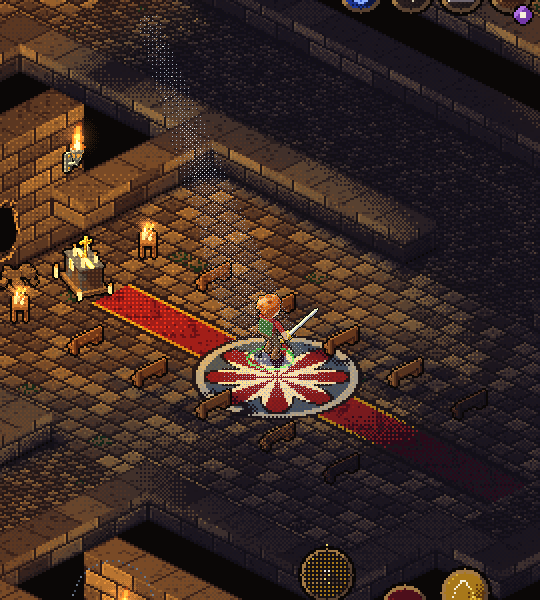
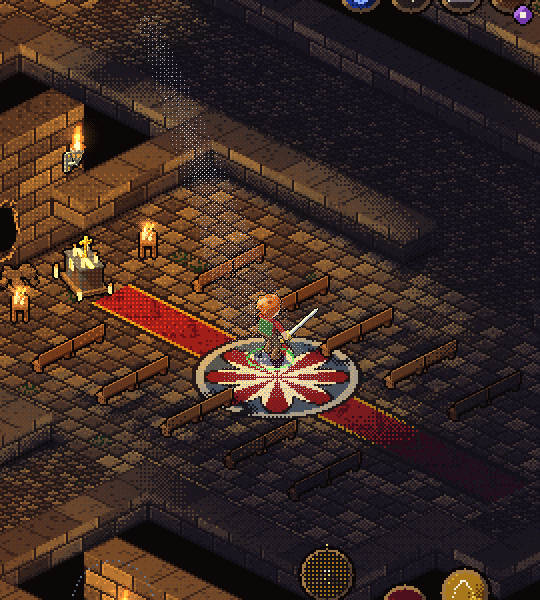
Round 68e: prison (barred cells with bones and straw) and library (bookshelves, reading table, loose pages); chapel pews joined into long benches; moonlight through a cracked ceiling in some plain rooms; notes
Claude-Session: https://claude.ai/code/session_01QbDoFLWPcsErkpKYsU8mMf

diff --git a/diablo-clone/game/js/world.js b/diablo-clone/game/js/world.js
@@ -476,13 +476,14 @@ function placeDecor(R, level) {
     const ok = LV.rooms.map((r, n) => n).filter(n => n > 0 && n !== LV.stairs.room && n !== LV.leaderRoom && LV.rooms[n].shape === 'rect' && LV.rooms[n].w >= 8 && LV.rooms[n].h >= 8);
     ok.sort((a, b) => LV.rooms[b].w * LV.rooms[b].h - LV.rooms[a].w * LV.rooms[a].h);
     const take = (job, pickLargest) => { if (!ok.length || R() > 0.85) return; const k = pickLargest ? 0 : R.int(0, ok.length - 1); LV.rooms[ok[k]].job = job; ok.splice(k, 1); };
-    take('chapel', true); take('ossuary', false); take('burial', false);
+    take('chapel', true); take('ossuary', false); take('burial', false); take('prison', false); take('library', false);
   }
   LV.rooms.forEach((r, n) => {
     const mine = (i, j) => LV.roomOf[tIdx(i, j)] === n;   // (shaped rooms: only tiles of this room's own floor)
     const th = LV.theme, interior = () => { for (let t = 0; t < 30; t++) { const i = R.int(r.x + 1, r.x + r.w - 2), j = R.int(r.y + 1, r.y + r.h - 2); if (mine(i, j) && Math.abs(i - r.cx) + Math.abs(j - r.cy) > 1) return [i, j]; } return [r.cx, r.cy]; };
     const nearWall = () => { for (let t = 0; t < 40; t++) { const i = R.int(r.x, r.x + r.w - 1), j = R.int(r.y, r.y + r.h - 1); if (mine(i, j) && wallSide(i, j)) return [i, j]; } return null; };
     if (r.job) { roomJob(r, n, D, R, mine); return; }   // round 68d: a room with a job is laid out on its own
+    if (th === 'crypt' && n && r.w >= 9 && r.h >= 9 && R() < 0.22 && LV.shafts) { const fi = r.x + r.w * (0.3 + R() * 0.4), fj = r.y + r.h * (0.3 + R() * 0.4); LV.shafts.push({ fi, fj }); LV.stamps.push({ kind: 'debris', fi, fj }); }   // a crack in the ceiling: moonlight and fallen stones
     if (th === 'crypt') {
       if (R() < 0.4) { const q = nearWall(); if (q && trySolid(...q)) D.push({ kind: 'coffin', i: q[0], j: q[1], yaw: tileAt(q[0] - 1, q[1]) === WALL || tileAt(q[0] + 1, q[1]) === WALL ? Math.PI / 2 : 0 }); }
       if (R() < 0.3) { const q = nearWall(); if (q && trySolid(...q)) D.push({ kind: 'candles', i: q[0], j: q[1] }); }
@@ -545,11 +546,20 @@ function roomJob(r, n, D, R, mine) {
     put('candles', 1, mid - 2); put('candles', 1, mid + 2);
     const [ci, cj] = T(Math.floor(L / 2), mid), [a0i, a0j] = T(2, mid), [a1i, a1j] = T(L - 1, mid);
     LV.stamps.push({ kind: 'carpet', a: [a0i + 0.5, a0j + 0.5], b: [a1i + 0.5, a1j + 0.5] }, { kind: 'mosaic', fi: ci + 0.5, fj: cj + 0.5 });
-    for (let u = 3; u <= L - 3; u += 2) for (const v of [mid - 2, mid + 2]) put('pew', u, v, { yaw: alongI ? Math.PI / 2 : 0 });
+    for (let u = 3; u <= L - 3; u += 2) for (const v of [mid - 3, mid - 2, mid + 2, mid + 3]) put('pew', u, v, { yaw: alongI ? Math.PI / 2 : 0 });   // (benches two tiles long each side of the carpet)
     LV.shafts.push({ fi: ci + 0.5, fj: cj + 0.5 });
   } else if (r.job === 'burial') {
     for (let u = 2; u <= L - 3; u += 3) for (const v of [mid - 2, mid + 2]) put('sarco', u, v, { open: R() < 0.4, yaw: alongI ? Math.PI / 2 : 0 });
     if (R() < 0.6) put('candles', 1, mid);
+  } else if (r.job === 'prison') {   // a row of cells along the back: bars across the front with a door gap in each, chains and a slumped prisoner's bones inside, straw
+    for (let v = 0; v < Wd; v++) { if (v % 4 === 2) continue; const [i, j] = T(2, v); if (mine(i, j) && !hidesStairs(i, j) && trySolid(i, j)) D.push({ kind: 'bars', i, j, yaw: alongI ? 0 : Math.PI / 2 }); }
+    for (let v = 1; v < Wd - 1; v += 4) { const [i, j] = T(0, v); D.push({ kind: 'bones', fi: i + 0.6, fj: j + 0.6, seed: R.int(1, 1e6) }); LV.stamps.push({ kind: 'straw', fi: i + 0.5, fj: j + 0.5 }); }
+    if (R() < 0.7) put('candles', L - 2, mid);
+  } else if (r.job === 'library') {   // shelves along the back walls, a reading table in the middle, pages scattered
+    for (let k = 0; k < L; k++) { const [i, j] = T(k, 0); if (mine(i, j) && (tileAt(i - 1, j) === WALL || tileAt(i, j - 1) === WALL) && !hidesStairs(i, j) && trySolid(i, j)) D.push({ kind: 'bookshelf', i, j, yaw: tileAt(i - 1, j) === WALL ? 0 : Math.PI / 2 }); }
+    for (let k = 1; k < Wd; k++) { const [i, j] = T(0, k); if (mine(i, j) && (tileAt(i - 1, j) === WALL || tileAt(i, j - 1) === WALL) && !hidesStairs(i, j) && trySolid(i, j)) D.push({ kind: 'bookshelf', i, j, yaw: tileAt(i - 1, j) === WALL ? 0 : Math.PI / 2 }); }
+    put('table', Math.floor(L / 2), mid, { yaw: alongI ? 0 : Math.PI / 2 });
+    LV.stamps.push({ kind: 'pages', fi: r.cx + 0.5, fj: r.cy + 0.5, seed: R.int(1, 1e6) });
   } else if (r.job === 'ossuary') {
     for (let j = r.y - 1; j <= r.y + r.h; j++) for (let i = r.x - 1; i <= r.x + r.w; i++) {
       if (tileAt(i, j) !== WALL) continue;
@@ -855,13 +865,35 @@ const PROPS = {
     for (const a of [0.4, 2.2, 4.1]) r.cone([0, 0, 1], [Math.cos(a) * 9, Math.sin(a) * 9, 0.2], 0.35, 0.3, M.BONE, { noShadow: true });
   }, [30, 26, 15, 18]),
   // round 68d: rooms with a job. A chapel pew: a plank seat on two legs with a back rail
-  pew: (yaw) => propSprite('pew', r => {
-    r.box([0, 0, 4.2], [9.5, 2.4, 0.7], M.WOOD);   // the seat
-    for (const x of [-7.5, 7.5]) r.box([x, 0, 2], [0.8, 2.2, 2], M.WOOD);   // the legs
-    r.box([0, -2.2, 7.2], [9.5, 0.6, 2.4], M.WOOD, null, { mf: p => Math.abs(p[0] + 3) < 0.6 && p[2] > 6 ? M.LEATHER : 0 });   // the back, a crack across it
-    for (const x of [-9, 9]) r.box([x, -2.2, 5.5], [0.7, 0.7, 4], M.WOOD);   // its posts
-  }, [44, 32, 22, 22], yaw),
-  // a stone coffin: carved band round it, a lid with a cross; open ones have the lid shoved half off and a skull inside
+  pew: (yaw) => propSprite('pew', r => {   // one tile long, so pews side by side join into a long bench
+    r.box([0, 0, 4.2], [11.3, 2.6, 0.7], M.WOOD);   // the seat
+    for (const x of [-10, 10]) r.box([x, 0, 2], [0.8, 2.3, 2], M.WOOD);   // the legs
+    r.box([0, -2.4, 7.6], [11.3, 0.6, 2.6], M.WOOD, null, { mf: p => Math.abs(p[2] - 8.6) < 0.4 ? M.LEATHER : 0 });   // the back, with a rail line
+  }, [52, 34, 26, 22], yaw),
+  // round 68d (improve): iron bars for a prison cell's front, one tile wide, a rail top and bottom
+  bars: (yaw) => propSprite('bars', r => {
+    for (const y of [-11.3, 11.3]) r.box([0, y * 0.98, 13], [0.9, 0.9, 13], M.IRON);   // the posts
+    for (const z of [1, 25]) r.box([0, 0, z], [0.6, 11.3, 0.7], M.IRON);   // the rails
+    for (let k = -4; k <= 4; k++) r.cyl([0, k * 2.4, 1], [0, k * 2.4, 25], 0.5, M.IRON);
+  }, [40, 52, 20, 40], yaw),
+  // a bookshelf against a wall (its back to the wall, facing +x): shelves of leaning books in a few colors
+  bookshelf: (yaw) => propSprite('bookshelf', r => {
+    r.box([-8, 0, 14], [3, 10.6, 14], M.WOOD);   // the case (its back against the wall)
+    for (const z of [3, 10, 17, 24]) {
+      r.box([-4.8, 0, z - 0.6], [0.4, 10, 0.5], M.WOOD);
+      const R = rng(z * 7 + 3);
+      for (let y = -9; y < 9; ) { const w = 0.9 + R() * 0.8, h = 4 + R() * 2, c = [M.CLOTH_RED, M.LEATHER, M.CLOTH_NAVY, M.CLOTH_GREEN, M.HAIR][Math.floor(R() * 5)]; if (R() < 0.15) { y += w + 0.6; continue; } r.box([-4.8, y + w / 2, z + h / 2], [2.4, w / 2, h / 2], c); y += w + 0.15; }
+    }
+  }, [40, 60, 20, 46], yaw),
+  // a reading table: a plank top on trestles, an open book and a candle
+  table: (yaw) => propSprite('table', r => {
+    r.box([0, 0, 9], [13, 7, 0.8], M.WOOD);   // the top
+    for (const x of [-10, 10]) r.box([x, 0, 4.2], [1, 5.6, 4.2], M.WOOD);   // the trestles
+    r.box([-2, 0, 10.2], [4.2, 3.2, 0.4], M.CLOTH_WHITE, null, { mf: p => Math.abs(p[0] + 2) < 0.35 ? M.LEATHER : 0 });   // the open book
+    r.box([6, 3, 10.4], [2.2, 1.6, 0.6], M.CLOTH_RED);   // a closed one
+    r.cyl([8, -3.5, 9.8], [8, -3.5, 14.5], 1, M.WAX); r.sph([8, -3.5, 15.5], 1, M.FIREM, { noShadow: true });
+  }, [64, 48, 32, 30], yaw),
+  // a stone coffin: carved band  // a stone coffin: carved band round it, a lid with a cross; open ones have the lid shoved half off and a skull inside
   sarcophagus: (open, yaw) => propSprite('sarco' + (open ? 'o' : ''), r => {
     r.box([0, 0, 4.6], [13, 5.8, 4.6], M.STONE, null, { mf: p => Math.abs(p[2] - 6.2) < 0.6 || Math.abs(p[2] - 1.2) < 0.5 ? M.ROCK : 0 });   // carved bands
     if (!open) { r.box([0, 0, 9.9], [13.6, 6.4, 0.9], M.STONE, null, { mf: p => p[2] > 10.4 && ((Math.abs(p[1]) < 0.8 && Math.abs(p[0] - 1.5) < 7) || (Math.abs(p[0] - 4.8) < 0.8 && Math.abs(p[1]) < 3.4)) ? M.ROCK : 0 }); return; }
@@ -1074,6 +1106,13 @@ function stampFloorArt() {
         const tile = tileAt(Math.floor(fi), Math.floor(fj)); if (tile !== FLOOR) continue;
         floorBuf[k] = w > 0.62 ? K2 : w > 0.5 ? GOLD[1] : ((Math.floor(t * 6) + Math.floor(w * 8)) % 7 === 0 ? RED[1] : hash(x, y, 31) < 0.06 ? RED[1] : RED[2]);
       }
+    } else if (st.kind === 'straw' || st.kind === 'pages' || st.kind === 'debris') {   // straw in a cell; loose pages; stones fallen from a cracked ceiling
+      const R = rng(st.seed || Math.round(st.fi * 131 + st.fj * 7)), n = st.kind === 'straw' ? 60 : st.kind === 'pages' ? 9 : 14;
+      for (let q = 0; q < n; q++) {
+        const fi = st.fi + (R() - 0.5) * (st.kind === 'pages' ? 3 : 1.4), fj = st.fj + (R() - 0.5) * (st.kind === 'pages' ? 3 : 1.4), x0 = Math.round(WX0 + (fi - fj) * 16), y0 = Math.round(WY0 + (fi + fj) * 8);
+        const w = st.kind === 'straw' ? 3 : st.kind === 'pages' ? 3 : 2, h = st.kind === 'straw' ? 1 : 2;
+        for (let b = 0; b < h; b++) for (let a = 0; a < w; a++) { const x = x0 + a + (st.kind === 'straw' ? b : 0), y = y0 + b; if (x < 0 || y < 0 || x >= WW || y >= WH) continue; const k = y * WW + x; if (floorBuf[k] === BLK || tileAt(Math.floor(fi), Math.floor(fj)) !== FLOOR) continue; floorBuf[k] = st.kind === 'straw' ? (R() < 0.5 ? STRAW[2] : STRAW[1]) : st.kind === 'pages' ? (b === h - 1 ? BONE[1] : BONE[3]) : (b ? ST(2) : ST(5)); }
+      }
     } else if (st.kind === 'mosaic') {
       for (let y = 0; y < WH; y++) for (let x = 0; x < WW; x++) {
         const A = (x - WX0) + 2 * (y - WY0), B = 2 * (y - WY0) - (x - WX0), di = A / 32 - st.fi, dj = B / 32 - st.fj, d = Math.hypot(di, dj); if (d > 1.9) continue;
@@ -1140,9 +1179,10 @@ function buildWorld() {
         }
         lights.push({ x, y, z: 14, r: 80, i: 0.65, seed: d.i + d.j });
       }
-    } else if (d.kind === 'pew' || d.kind === 'sarco' || d.kind === 'altar') {   // round 68d
+    } else if (d.kind === 'pew' || d.kind === 'sarco' || d.kind === 'altar' || d.kind === 'bars' || d.kind === 'bookshelf' || d.kind === 'table') {   // round 68d
       const [x, y] = iso(d.i + 0.5, d.j + 0.5);
-      const sp = d.kind === 'pew' ? PROPS.pew(d.yaw) : d.kind === 'sarco' ? PROPS.sarcophagus(!!d.open, d.yaw) : BUILD.altar();   // (Osric's altar, from the camp)
+      if (d.kind === 'table') lights.push({ x, y, z: 12, r: 70, i: 0.55, seed: d.i * 3 + d.j });
+      const sp = d.kind === 'bars' ? PROPS.bars(d.yaw) : d.kind === 'bookshelf' ? PROPS.bookshelf(d.yaw) : d.kind === 'table' ? PROPS.table(d.yaw) : d.kind === 'pew' ? PROPS.pew(d.yaw) : d.kind === 'sarco' ? PROPS.sarcophagus(!!d.open, d.yaw) : BUILD.altar();   // (Osric's altar, from the camp)
       props.push({ depth: d.i + d.j + 1, sp, wx: x, wy: y + 2, tile: tIdx(d.i, d.j) });
       if (d.kind === 'altar') lights.push({ x, y, z: 20, r: 110, i: 0.8, seed: d.i * 5 + d.j });
     } else if (d.kind === 'mushroom') {

diff --git a/diablo-clone/tools/playtests/shots68/playtest.js b/diablo-clone/tools/playtests/shots68/playtest.js
@@ -33,12 +33,12 @@ for (const [kind, sd] of [['niche', 4242], ['collapse', 4242], ['niche', 99], ['
   hero.fi = f[0] + 0.5 + (f[2] === 'R' ? 2.2 : 0.8); hero.fj = f[1] + 0.5 + (f[2] === 'L' ? 2.2 : 0.8); updateFov(hero.fi, hero.fj); settle(); shots[kind] = cvs.toDataURL(); L.push({ [kind]: sd });
 }
 // round 68d: the rooms with a job, one shot each (the first floor of a few that has it)
-for (const job of ['chapel', 'ossuary', 'burial']) {
-  for (const sd of [4242, 99, 777, 5, 11, 31337, 2024]) {
+for (const job of ['chapel', 'ossuary', 'burial', 'prison', 'library']) {
+  for (const sd of [4242, 99, 777, 5, 11, 31337, 2024, 1, 2, 3, 6, 8]) {
     startLevel(3, sd); G.actCard = 0; LV.act = 1; enemies = [];
     const r = LV.rooms.find(q => q.job === job); if (!r) continue;
     hero.fi = r.x + r.w * 0.45; hero.fj = r.y + r.h * 0.45; updateFov(hero.fi, hero.fj); settle(); shots[job] = cvs.toDataURL(); L.push({ [job]: sd, size: r.w + 'x' + r.h }); break;
   }
 }
-{ let n = { chapel: 0, ossuary: 0, burial: 0 }, floors = 0; for (const sd of [1, 2, 3, 4, 5, 6, 7, 8, 9, 10]) { for (const lv of [3, 4]) { genLevel(lv, sd); floors++; for (const r of LV.rooms) if (r.job) n[r.job]++; } } L.push({ floors, jobs: n }); }
+{ let n = { chapel: 0, ossuary: 0, burial: 0, prison: 0, library: 0 }, floors = 0; for (const sd of [1, 2, 3, 4, 5, 6, 7, 8, 9, 10]) { for (const lv of [3, 4]) { genLevel(lv, sd); floors++; for (const r of LV.rooms) if (r.job) n[r.job]++; } } L.push({ floors, jobs: n }); }
 window.__out = { log: L, shots };

diff --git a/diablo-clone/NOTES.md b/diablo-clone/NOTES.md
@@ -236,6 +236,7 @@ Full detail: `reports/Better code generated pixel art.md` and
 | 68a | User: the dungeons look generic and the halls are too slim; plan a face-lift; concept art from ChatGPT (`art/refs/dungeon/`: prompt PROMPT.md, the game's shots in `current/`, concepts A corridor, B ossuary, C chapel, D parts sheet); then: no pillars in halls, use them to break up big rooms (four in a large room) | **Halls** (world.js tryGen): every corridor 3 tiles wide (`OFF3`), 4 into a big room (`OFF4`, area > 120, 75%), side areas too; rooms 5 apart (were 3); floors 62x62, side areas 46x46 (were 56 / 40). **Pillars** (placeDecor, `pillarAt`): none in halls (a first try put a colonnade down 4-wide halls; the user: bad, pillars belong in big rooms); a large room (10x10+, area 90+, not caves) gets four pillars in a square a third of the way in (+ a brazier in a hall-type room), a great hall two rows of three + the brazier; the old corner pillars and back-wall colonnade are gone; trySolid keeps every tile reachable. Tall scenery in front of the hero is already dithered. **Side-area exits**: the way out goes in the start room's corner farthest from its openings (the route out of the room ran over the fixed back corner and threw the hero out of the den mid-fight), it only takes you when you steer onto it (not when knocked back onto it), and you come out 1.5 from the door (was 1.17, inside the 1.2 that re-arms it). Tests: seed sweep 40 clean; walk to the stairs ~15% longer at the median; barrow67, story (steer onto the exit), act1, flow64, quest47, hollow, arrow (longer walks), stuck all pass; bots all three classes to the end screen, 5.1-6.1 min, 0 deaths. `tools/capture/floormap.cjs` + `floormap.py` (before/after maps). Game version 124 (arches at room entrances moved to 68b, with the new wall pieces) |
 | 68b | User: begin the stone face-lift (from the concept art); blind A/B | Built: a new stone ramp (mauve-grey, warm only in torchlight), dressed-block walls (capstone course, base course, pilaster every third tile, doorway jambs as pilasters), square flagstone floors (bevels, cracks, moss by the walls), and a darker cut. Blind page https://claude.ai/artifact/7TAC6fc62w1NhkW5bDwWgd (`tools/pages/stoneab`, capture `tools/capture/stoneab.cjs`, key `art-review/round68/stone/ab-key.json`; the shuffle came out in the same order in every scene). **The user picked today's look in all three scenes** (they like its stones and the warm lighting; unsure about the orange). Reverted: the game keeps its bricks, floor and colors (the code is in commit a5ac6c3 if wanted). The face-lift goes into the dungeon's contents instead: skull niches, collapsed walls, banners, rooms with a job (ossuary, chapel, burial hall), light shafts |
 | 68c-d | User: keep the stone exactly; put the face-lift into the contents: skull niches, collapsed walls, banners, rooms with a job, light shafts | **68c** (world.js `wallFeature`): crypt tall walls facing floor, never a torch's: a **skull niche** (`PROPS.niche`, a rig prop like the torch, at 2x: a stone frame, lintel and keystone, dark recess, shelf, two skulls, a lit candle with its own flame and small light; the first try painted into the 16 px wall texture was unreadable) or a **broken wall** (a ragged black hole in the face, `PROPS.rubble` blocks below; a lowered wall section didn't read); crypt banners mostly red. **68d** (`roomJob`, up to one each per crypt floor, never the start, stairs or leader room, rect 8x8+): **chapel** (the largest: Osric's altar `BUILD.altar` at the back with candles, a red carpet runner with a gold border to the door and a mosaic star under its middle stamped into the floor `stampFloorArt`, pews `PROPS.pew` in two rows, a moonlight shaft `drawShafts` in skills.js: a sparse dithered beam, a pool, dust motes); **ossuary** (skull shelves `PROPS.ossuary` on its tall walls, a skull row along its low walls' tops, no torches, glowing mushrooms, bone heaps, bones); **burial hall** (two rows of stone coffins `PROPS.sarcophagus`, 40% open with the lid shoved aside and a skull). In 20 floors: 12 chapels, 14 ossuaries, 8 burial halls. Tests: seed sweep, barrow67, story, king, act1, stuck, finale67, bot warrior to the end (5.5 min, 0 deaths). Game version 126 |
+| 68e | User: use your best judgment and improve it | **Prison** (cells along the back: `PROPS.bars` one tile wide across the front with a door gap every fourth tile, a prisoner's bones and straw `stamp straw` in each, candles) and **library** (`PROPS.bookshelf` backed against the back walls, `PROPS.table` with an open book, a closed one and a candle and its own light, loose pages `stamp pages`) from concept sheet D; chapel pews one tile long so they join into benches, two each side of the carpet per row; **moonlight in plain rooms**: a crypt room 9x9+ without a job has a 22% chance of a crack in the ceiling (a shaft + fallen stones `stamp debris`). Per 20 floors: 12 chapels, 14 ossuaries, 8 burial halls, 8 prisons, 6 libraries. Tests pass; bot ranger to the end 5.9 min, 0 deaths. Game version 127 |
 
 ## Direction from the user (after round 28)
 - **No new acts** until the gameplay feel is right.
